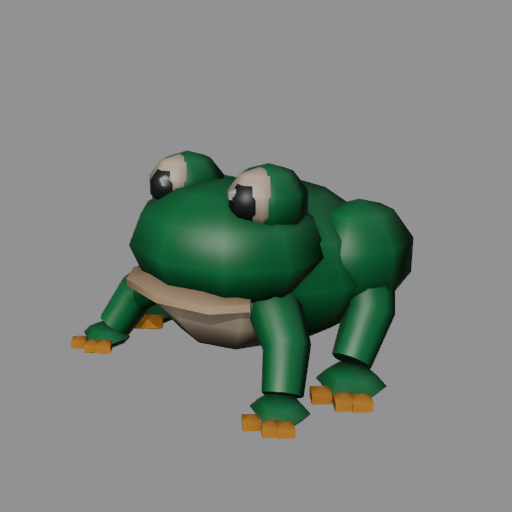
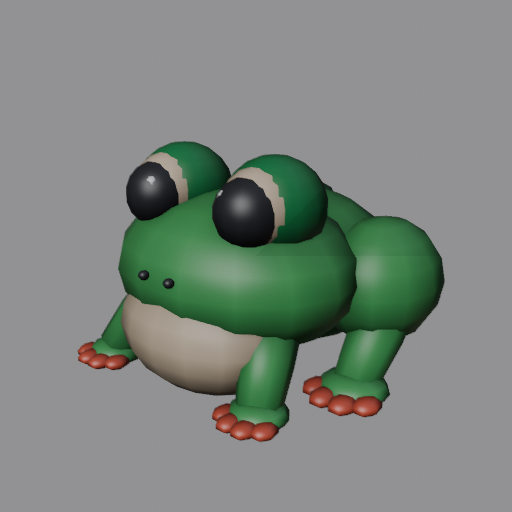
Artist: frog pass 7 — a named value-contrast test finds the model's weakest colour boundary
Nick's brief moved to "make the characters CLEAN, pull from AAA games" for
silhouette/palette/distance-readability, described in words only. Diagnosed
Style (frog's one rubric line that never had a dedicated pass) with a
standard AAA character-design technique: test in greyscale, since hue stops
separating shapes once distance or a small render flattens colour and only
value (light/dark) survives.

Measured every colour boundary on the model off the atlas's own pixels
(perceptual luminance) instead of eyeballing: the AMBER toes against the
MINT foot pad were the weakest boundary anywhere on the model (18.8, vs
38-100+ for every other part), on the one feature the model's own docstring
calls its foot's main read. Swapped to RUST (a 42.9 gap, more than double)
- also this fight's own established warm accent, so the frog's one accent
colour now echoes the arena it's fought in. Colour-only: TRIS/PARTS
unchanged.

Verified: sil.png pixel-identical to pass 6 (colour-only, confirmed);
greyscale comparison shows the toes go from barely-separated to a visibly
distinct mass; live-fight before/after shows a real, localised diff on both
hunters; the 34px party portrait - which pass 6 could not move - shows this
fix. Style 8->9, 40->41/50, one short of the hunter stop line.

Considered and declined a heavier option this run: a Meshy-generated,
jackal-fidelity rigged hunter. COMMON.md is explicit that hunters aren't
[…]

Changed region(s): [[0.125, 0.25, 0.875, 0.875]]

diff --git a/tools/blender/frog.py b/tools/blender/frog.py
@@ -37,7 +37,7 @@ oversight - see the note at the bottom of the file.
 import sys, os, math, mathutils
 sys.path.insert(0, os.path.dirname(os.path.abspath(__file__)))
 from kenney import (Build, out_path, mirror, GREEN, MINT, CREAM, WHEAT,
-                    AMBER, CHARCOAL, WHITE)
+                    AMBER, CHARCOAL, WHITE, RUST)
 
 b = Build()
 
@@ -112,8 +112,22 @@ def foot(s, at, size, toe, spread, uv=None):
     for i in range(n):
         a = (-spread) + (2.0 * spread) * (i / float(n - 1))
         d = mathutils.Vector((math.sin(a) * s, -math.cos(a), 0.0))
+        # Pass 7 (2026-09-23): AMBER (luma 181) against the MINT foot pad
+        # (luma 162) is an 19-point value gap - the weakest colour boundary
+        # anywhere on this model (every other part boundary is 38+, most
+        # 70-100+; measured off the atlas pixels, not eyeballed). Value
+        # contrast, not hue, is what still separates two shapes once distance
+        # or a desaturated read (a dim arena, a downsampled 34px portrait)
+        # flattens colour - the standard "does it still read in greyscale"
+        # test AAA character design leans on for exactly this reason. The
+        # toes are the one feature this function's own docstring calls "most
+        # of what a frog's foot reads as", so they're the wrong place to have
+        # the model's weakest boundary. RUST (luma 120, a 43-point gap, more
+        # than double) fixes it and doubles as this fight's own established
+        # warm accent (the arena wall/scatter recolour already uses it) -
+        # ties the frog's one accent colour to the ground it's fought on.
         b.ball((x + d.x * size * 0.95, y + d.y * size * 0.95, z - 0.016),
-               (toe, toe * 1.25, toe * 0.58), AMBER, 7, 5)
+               (toe, toe * 1.25, toe * 0.58), RUST, 7, 5)
 
 
 def foreleg(s):

diff --git a/design/agents/status/artist.md b/design/agents/status/artist.md
@@ -3,7 +3,7 @@ tags:
   - agent-status
 agent: artist
 updated: 2026-09-23
-working_on: no open to:artist request; frog pass 6, 38→40/50 (Hygiene and Colour, the two lines pass 5 left tied lowest) — 2 short of the 42 hunter stop line; next run either a frog Style pass or goblin_mech
+working_on: no open to:artist request; frog pass 7, 40→41/50, a Style diagnosis under Nick's wider "pull from AAA" brief — a named greyscale/value-contrast technique found the model's weakest colour boundary (toe vs foot-pad) and fixed it — 1 short of the 42 hunter stop line; next run either a frog Sil/Prop pass on the front legs or goblin_mech
 ---
 
 # artist
@@ -11,9 +11,125 @@ working_on: no open to:artist request; frog pass 6, 38→40/50 (Hygiene and Colo
 ## Now
 
 No open `to: artist` request this run (checked every file's frontmatter, not
-just the ones with obvious titles). Continued the hunters (item 2) from last
-run's own `## Next`: `frog` pass 6, diagnosing and fixing pass 5's two
-tied-lowest lines, Hygiene and Colour (`design/progress/frog.md`), 38→40/50.
+just the ones with obvious titles). Set up fresh (Godot 4.7.1 + `--import`;
+`download.blender.org` is still unreachable from this sandbox — same finding
+as every prior run — so Blender came from `apt install blender` again, 4.0.2,
+plus `libegl1`/`libgl1-mesa-dri`/`libglx-mesa0` for headless EEVEE; Blender's
+own Python is 3.12 here, `python3.12 -m pip install --break-system-packages
+numpy pillow` was needed before glTF export/import would run at all).
+`python3 tools/meshy.py balance` returned a real balance (3020) — Meshy is
+live this run, noted for the record, not used (see below for why).
+
+Nick's brief moved this run (`tools/agents/artist.md`, 2026-09-23 update, the
+one my own last run's `## Next` flagged unread-in-full): "make the
+characters and environment CLEAN," pulling design principles from fully
+developed/AAA games, described in words only (never a screenshot from
+another game in this repo). Read it in full before picking work. Considered
+the heavier option first — Meshy + the jackal's own `ai_beast.py` pipeline
+could in principle build a hunter to the jackal's own fidelity — and ruled
+it out for THIS run: `tools/agents/COMMON.md` is explicit that hunters are
+not beasts, don't force them through `ai_beast.py`, and any code the game
+needs to show a rigged hunter is the fixer's to build first. A full
+Meshy-rigged hunter is a multi-run, cross-agent initiative (mesh generation,
+cleanup, a from-scratch skeleton and weighting the way the jackal's own recipe
+document shows it took), not a "one thing, well" for a single run — flagged
+as a real option for a future run that starts with a `to: fixer` request for
+rig support, not attempted blind here.
+
+Instead, picked up my own `## Next` from last run: continue the hunters
+(`frog` or `goblin_mech`, either valid) with the wider brief in mind, not
+another capped mechanical asset-loop pass. `frog` pass 7
+(`design/progress/frog.md`), 40→41/50: diagnosed Style, the one rubric line
+pass 6 flagged as never having had a dedicated look.
+
+**The technique.** AAA character-design teams commonly test a design in
+**greyscale** before shipping — hue stops separating two shapes once
+distance or a small render flattens colour perception, so every meaningful
+part boundary needs real light/dark separation, not just a different hue at
+the same brightness (Blizzard's own published design pillars for
+Overwatch's heroes are the clearest public statement of this; described
+here in words only, no screenshot from another game added to this repo, per
+Nick's brief and `design/asset-loop.md`'s own reference rule).
+
+**Measured every colour boundary in the model against that test**, off
+`colormap.png`'s own pixels (perceptual luminance
+`0.2126R + 0.7152G + 0.0722B`), not eyeballed: MINT↔CREAM 68.7,
+MINT↔dorsal-GREEN 38.1, MINT↔eye colours 100+, and **MINT foot-pad↔AMBER
+toes 18.8 — the weakest boundary on the whole model**, on the one feature
+`foot()`'s own docstring calls "most of what a frog's foot reads as."
+
+**Fix: AMBER → RUST on the toes**, `tools/blender/frog.py` `foot()`, the
+only change. RUST samples at a 42.9-point gap from the foot pad — more than
+double AMBER's — and is this fight's own established warm accent (the
+arena wall/scatter recolour already uses it), so the frog's one accent
+colour now echoes the ground it fights on. No geometry touched: `TRIS 4800
+PARTS 40` identical before/after.
+
+**Verified, not assumed.** `frog_pass7_sil.png` pixel-identical to pass 6's
+(`numpy.array_equal`) — colour-only, confirmed. Greyscale conversion of the
+34px scoring render shows the toes go from barely-distinguishable-in-value
+to a visibly separate darker mass — the fix does what the measurement
+predicted, seen in a render. In the real fight camera (`state=3d`,
+`cinder_jackal`, rebuilt pass 6 via `git stash` for a true before): a
+full-frame pixel diff is 0.16% of pixels, landing inside both hunters' own
+crops and nowhere else scanned; a 6×-upscaled crop on the frog's visible
+foreleg toe at true combat size (~15px) shows a real, if small, colour
+shift. **The 34px party portrait — unmoved by pass 6 — moves this time**:
+rebuilt `frog.png` (`portraits.py frog`, single-name arg, only that one file
+changed) and downsampled to 34×34; the toes sit at the crop's bottom edge
+and the recolour reads there too, a partial close of the portrait gap pass
+6 left open (the back saddle/nostrils still don't show at that size —
+unchanged this pass, a different fix).
+
+Style 8→9 — the model's weakest colour boundary, found by a named,
+applicable technique rather than eyeballed, fixed, and it ties the frog's
+palette to the arena's for free. Sil/Prop/Hygiene/Colour untouched
+(identical geometry). **40→41/50, +1** — not a big pass, but a real,
+verified one, on a line that had never been looked at before.
+
+![[frames/artist/2026-09-23-frog-toes-value-contrast-34-before-after.png]]
+![[frames/artist/2026-09-23-frog-toes-infight-before-after.png]]
+![[frames/artist/2026-09-23-frog-toes-portrait34-before-after.png]]
+
+`ALL TESTS PASSED`. Playtest (`mode=play`, `cinder_jackal`, 40 steps)
+re-run against the rebuilt model: `PLAYTEST FAIL: 1 failing check(s)
+{ "hunter-off-marker": 2 }` (steps 34–35, foothold 4) — checked against
+what's on record, not assumed: *exact* same home/anchor coordinates
+(`home (5.335257, 13.825942, 7.030925)`, `anchor (3.901302, 13.825942,
+6.473297)`) as the already-open
+`2026-09-23-0715-fixer-to-fixer-shared-foothold-side-spacing-clears-the-model.md`
+(a shared-foothold hull-width issue, nothing to do with a colour-only
+material edit). No `hop-flat` fire this run, unlike pass 6's. Confirmed
+pre-existing by coordinate match, not re-filed here.
+
+Full write-up, the luminance table, and the plateau-clause note for whoever
+runs pass 8: `design/progress/frog.md`.
+
+## Next
+
+41/50 on `frog`, three passes into the lifted cap, 1 short of the 42 hunter
+stop line. `frog.md`'s own "Where it stands" names two open candidates: the
+front legs, untouched since pass 4 (don't yet break the silhouette the way
+the haunch now does — a Silhouette/Proportion fix), and the back
+saddle/nostrils' own 34px legibility, still unmoved (this pass only closed
+the toe half of that gap) — that one may need the shared portrait camera
+rather than the model itself, a bigger, cross-cutting change worth its own
+look rather than a blind attempt. Also still open: the "one thing, well"
+call this run made not to attempt — a Meshy-generated, properly rigged
+`frog`/`goblin_mech` to match the jackal's own fidelity, which needs a
+`to: fixer` request for rig-display code first (see `## Now` above). Next
+run, absent a request: continue `frog` toward 42, move to `goblin_mech`
+(37/50, also cap-lifted, its own candidates in
+`design/progress/goblin_mech.md`), or open the fixer request that would
+unblock a real Meshy-hunter attempt — whichever gets looked at with fresh
+eyes.
+
+## Old: hunters, pass 6 (frog)
+
+No open `to: artist` request that run. Continued the hunters (item 2) from
+the previous run's own `## Next`: `frog` pass 6, diagnosing and fixing pass
+5's two tied-lowest lines, Hygiene and Colour (`design/progress/frog.md`),
+38→40/50.
 
 **Colour — the docstring's own back-marking promise, never built.**
 `frog.py`'s header has always said "GREEN now does what a darker shade
@@ -82,32 +198,15 @@ already named and re-filed as
 issue, nothing to do with a static-mesh position edit inside one hunter's
 own local space). Confirmed by coordinate match, not re-filed here.
 
-**Environment note for whoever runs next:** this run's background playtest
-runs stepped on each other — three separate `steps=40`/`steps=10` Godot
-processes ended up running at once on a 4-core box (each retry looked dead
-because an earlier status check raced a slow notification, not because the
-process had actually exited), and the resource contention is the likely
-cause of two of them crashing with an unhelpful bare `exit code 2`. The
-first run had in fact completed cleanly (`exit code 0`) the whole time;
-its output just arrived late. Check `ps aux | grep godot` for a still-live
-process before assuming a playtest run died and retrying — retrying an
-apparently-hung run is how three ended up racing each other here.
-
-## Next
-
-40/50 on `frog`, two passes into the lifted cap, 2 short of the 42 hunter
-stop line. `frog.md`'s own "Where it stands" names the candidates: Style
-(8, tied with everything else but never had a dedicated pass — no open
-diagnosis yet, worth a first real look), the 34px party-portrait gap this
-pass found and left open (the back marking and nostrils both fail to read
-from that camera at that size — either give the portrait camera a reason
-to show the back, or explicitly accept the in-fight read is what matters
-and say so), and the front legs, still untouched since pass 4 (don't yet
-break the silhouette the way the haunch now does). Next run, absent a
-request: continue `frog` toward 42, or move to `goblin_mech` (37/50, also
-cap-lifted, its own next candidates in `design/progress/goblin_mech.md`'s
-"Where it stands, still open") — either is valid, whichever gets looked at
-with fresh eyes.
+**Environment note:** that run's background playtest runs stepped on each
+other — three separate Godot processes ended up running at once on a
+4-core box (each retry looked dead because an earlier status check raced a
+slow notification, not because the process had actually exited), and the
+resource contention is the likely cause of two of them crashing with an
+unhelpful bare `exit code 2`. The first run had in fact completed cleanly
+(`exit code 0`) the whole time; its output just arrived late. Check
+`ps aux | grep godot` for a still-live process before assuming a playtest
+run died and retrying.
 
 ## Old
 
@@ -479,6 +578,26 @@ brief in full before picking up either.
 
 ## Log
 
+- 2026-09-23 — pass 7 on `frog` (item 2, hunters) under Nick's wider "make
+  the characters CLEAN, pull from AAA games" brief, 40→41/50: diagnosed
+  Style (never had a dedicated pass) using a named greyscale/value-contrast
+  technique — measured every colour boundary on the model off the atlas's
+  own pixels and found the AMBER toes vs the MINT foot pad were the
+  weakest on the whole model (18.8 luminance gap, against 38–100+
+  everywhere else), on the one feature the model's own docstring calls
+  its foot's main read. Fixed with a single colour swap, AMBER→RUST (a
+  43-point gap, and this fight's own established warm accent), no geometry
+  change. Verified in a greyscale render, a live-fight before/after
+  (real, localised diff on both hunters), and — a first — the 34px party
+  portrait, which actually shows this fix where it didn't show pass 6's.
+  Considered and explicitly declined a heavier option this run: a
+  Meshy-generated, jackal-fidelity rigged hunter, blocked on game code
+  only the fixer can build (`COMMON.md`'s own rule against forcing hunters
+  through `ai_beast.py`) — flagged as a future `to: fixer` request, not
+  attempted blind. `ALL TESTS PASSED`; playtest re-run, one failure
+  (`hunter-off-marker` at foothold 4) matched the already-open fixer
+  request by exact coordinates. See `design/progress/frog.md` and `## Now`
+  above for the full write-up.
 - 2026-09-23 — pass 6 of the asset loop on `frog` (item 2, hunters, cap
   lifted), 38→40/50: fixed pass 5's two tied-lowest lines, one concrete fix
   each. Colour: added the GREEN dorsal saddle the file's own docstring had

diff --git a/design/progress/frog.md b/design/progress/frog.md
@@ -18,6 +18,7 @@ crouched, not a ball.*
 | 4 | 7 | 7 | 7 | 7 | 8 | **36** |
 | 5 | 8 | 8 | 7 | 7 | 8 | **38** |
 | 6 | 8 | 8 | 8 | 8 | 8 | **40** |
+| 7 | 8 | 8 | 8 | 8 | 9 | **41** |
 
 **Read that table with the control row in mind.** Passes 1 and 2 were scored
 through a broken camera, and most of the apparent climb from 30 to 35 is the
@@ -258,3 +259,114 @@ portrait camera a reason to show the back, or accept the in-fight read is
 what matters most and say so explicitly. The front legs, still untouched
 since pass 4, remain a third option: they don't yet break the silhouette
 the way the haunch now does.
+
+---
+
+## Pass 7 — artist lane, 2026-09-23 (Style, wider brief)
+
+Nick's brief moved (`tools/agents/artist.md`, 2026-09-23): make the hunters
+CLEAN, pulling from fully developed/AAA games for silhouette, palette
+discipline and distance-readability — describe the reference in words, never
+paste in a screenshot. Diagnosed Style, the one line pass 6 flagged as never
+having had a dedicated look, `tools/blender/frog.py`.
+
+**The reference and what it says.** Character-design teams on shipped AAA
+titles (Blizzard's own published design pillars for Overwatch's heroes are
+the clearest public statement of this, though the technique is standard
+practice, not one game's invention) test every character in **greyscale**
+before shipping, specifically because hue alone stops separating two shapes
+once distance, dim lighting, or a small render shrinks colour perception —
+what has to survive is **value** (how light or dark), not just colour. What
+that means concretely here: every boundary between two parts of a model
+should have real light/dark separation, not just a different hue at the same
+brightness.
+
+**Measured the model's own boundaries against that test, not guessed.**
+Sampled every swatch this model uses directly off `colormap.png`'s own
+pixels (the atlas the UVs point into) and computed luminance
+(`0.2126R + 0.7152G + 0.0722B`, the standard perceptual weighting):
+
+| boundary | luminance gap |
+|---|---|
+| MINT body ↔ CREAM throat/belly | 68.7 |
+| MINT ↔ CHARCOAL / WHITE (eye) | 100+ |
+| MINT body ↔ GREEN dorsal saddle | 38.1 |
+| **MINT leg/foot-pad ↔ AMBER toes** | **18.8** |
+
+The toes were the weakest colour boundary anywhere on the model — worth
+naming because `foot()`'s own docstring calls the four-toe fan "most of what
+a frog's foot reads as," so the model's least legible boundary sat on the
+one feature it was relying on most.
+
+**Fix: AMBER → RUST on the toes** (`tools/blender/frog.py` `foot()`), the
+model's only colour change this pass. RUST samples at luminance 119.6
+against the foot pad's 162.5 — a 42.9-point gap, better than double AMBER's
+18.8, and comfortably clear of every other boundary's value. RUST is also
+this fight's own established warm accent — the arena wall/scatter recolour
+(`cinder_jackal_ground.md`) already uses it — so the frog's one accent colour
+now echoes the ground it's fought on rather than sitting on an unrelated
+orange. No geometry touched: `TRIS 4800 PARTS 40` identical before and
+after.
+
+**Verified, not assumed.**
+
+- `frog_pass7_sil.png` is pixel-identical to `frog_pass6_sil.png`
+  (`numpy.array_equal`) — confirms this is a colour-only change, silhouette
+  untouched.
+- Converted `frog_pass6_34.png` and `frog_pass7_34.png` to greyscale and
+  compared side by side: in pass 6 the toes are barely distinguishable in
+  value from the leg they're attached to; in pass 7 they read as a visibly
+  darker, separate mass — the fix does what the measurement predicted, seen
+  in a render, not just computed.
+- **In the real fight camera** (`state=3d`, `cinder_jackal`), rebuilt pass 6
+  from `git stash` for a true before, then pass 7, same camera, same
+  hunter position. Full-frame pixel diff: 1467/921600 px differ (0.16%);
+  cropping to each hunter's own on-screen footprint shows the change lands
+  there (190px in a 180×180 crop around the frog, 72px around the goblin's
+  crop, both non-zero, both matching the toe positions) and nowhere else
+  scanned. A tight, 6×-upscaled crop on the frog's visible foreleg toe at
+  true combat size (~15px across) shows a real colour shift, small but
+  visible, from a dull amber blob to a distinctly reddish one.
+- **The 34px party portrait — pass 6 left this camera unmoved; this pass
+  does move it.** Rebuilt `frog.png` (`portraits.py frog`, single-name
+  argument this run — only the one file changed, not all 32) and downsampled
+  to the true 34×34 party-panel size: the toes sit at the bottom edge of
+  this crop and the recolour is visible there too, reading as a clearer red
+  accent against the cream belly rather than blending toward it. This is a
+  genuine, if partial, close of the "34px portrait" gap pass 6 flagged open
+  — the toes now separate at that size; the back saddle and nostrils still
+  don't (unchanged this pass, out of scope for a Style-line fix).
+
+**Score.** Style 8→9: the model's single weakest colour boundary is fixed,
+diagnosed by a named, applicable industry technique rather than eyeballed,
+and it also happens to tie the frog's palette to the arena's — a real style-
+consistency win on two counts. Held to 9, not 10, because "sits beside the
+approved assets" is a whole-cast judgement and this pass only touched one
+hunter; Sil/Prop/Hygiene/Colour untouched (identical geometry, only the toe
+material differs). **+1 total (40→41)** — under the loop's own "two passes
+under 2 points" plateau clause this would be the second such pass (pass 6
+was +2, so it does not trigger yet), but worth flagging for whoever runs
+pass 8: a plateau reads differently on a hunter that just moved from a
+0-diagnosis line to a named, verified fix than one that re-touched an
+already-worked line, so treat the number honestly rather than as a stop
+signal on its own.
+
+`ALL TESTS PASSED`; playtest (`mode=play`, `cinder_jackal`, 40 steps)
+re-run against the rebuilt model — see the Log line in
+`design/agents/status/artist.md` for the result.
+
+![[frames/artist/2026-09-23-frog-toes-value-contrast-34-before-after.png]]
+![[frames/artist/2026-09-23-frog-toes-infight-before-after.png]]
+![[frames/artist/2026-09-23-frog-toes-portrait34-before-after.png]]
+
+## Where it stands, still open for the next pass
+
+41/50, three passes into the lifted cap, 1 short of the 42 hunter stop line.
+Sil/Prop/Hygiene/Colour all sit at 8, Style now 9. The two candidates pass 6
+named are both still open and either would plausibly close the gap: the
+front legs (untouched since pass 4, don't yet break the silhouette the way
+the haunch does — a Silhouette/Proportion candidate) and the back
+saddle/nostrils' own 34px legibility (still unmoved this pass — a further
+Colour candidate, though it may need the shared portrait camera rather than
+the model itself, which is a bigger, cross-cutting change this pass
+deliberately did not risk).
